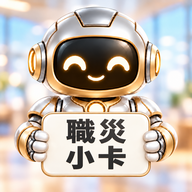
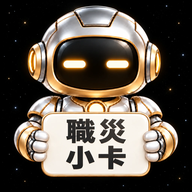
網站：桌面圖示改黑色星空機器人（打包編號 dd3d57424b）
Claude-Session: https://claude.ai/code/session_01JqicpSVCt2FzsjQ5qsAVaY

diff --git a/sw.js b/sw.js
@@ -1,5 +1,5 @@
 /* 離線快取。BUILD 由 build.py 每次打包時換成新的編號，換了編號就會更新快取。 */
-const BUILD = '2ec46687dd';
+const BUILD = 'dd3d57424b';
 const CACHE = 'casecard-' + BUILD;
 const PRECACHE = ["./", "app.css", "cases/index.json", "cases/shilin_110_laosu_72.json", "design/standard.css", "fonts/BarlowCondensed-Bold.woff2", "fonts/BarlowCondensed-ExtraBold.woff2", "fonts/FONTS_LICENSE.md", "fonts/OFL.txt", "fonts/fonts.json", "fonts/sans400a.woff2", "fonts/sans400b.woff2", "fonts/sans500a.woff2", "fonts/sans500b.woff2", "fonts/sans700a.woff2", "fonts/sans700b.woff2", "fonts/sans800a.woff2", "fonts/sans800b.woff2", "fonts/sans900a.woff2", "fonts/sans900b.woff2", "fonts/serif500a.woff2", "fonts/serif500b.woff2", "fonts/serif700a.woff2", "fonts/serif700b.woff2", "fonts/serif900a.woff2", "fonts/serif900b.woff2", "hero_library/overwork_night_desk.svg", "hero_library/overwork_night_desk_photo.card.jpg", "hero_library/overwork_night_desk_photo.provenance.json", "icons/apple-touch-icon.png", "icons/icon-192.png", "icons/icon-512-maskable.png", "icons/icon-512.png", "index.html", "js/app.js", "js/engine.js", "js/render.js", "manifest.webmanifest", "skins/skin_original.json", "skins/skin_style1.json", "skins/skin_style1_print.json", "skins/skin_style2.json", "skins/skin_style3.json", "skins/skin_style4.json", "skins/skin_style5.json", "skins/skin_style6.json", "skins/skin_style7.json"];
 // 這些每次都先問網路（有網路就拿最新，沒網路才用快取），新案例才看得到

diff --git a/js/app.js b/js/app.js
@@ -2,7 +2,7 @@
 (function () {
 'use strict';
 const APP_VERSION = '0.3.0';
-const BUILD = '2ec46687dd';
+const BUILD = 'dd3d57424b';
 // 壞檔在清單上的標示（驗收第 10 條的用字）；要換字只改這裡
 const BROKEN_LABEL = '這個案例讀不出來';
 const DISCLAIMER = '案例內容由 AI 整理，正式使用前請自己對照判決核對。';
